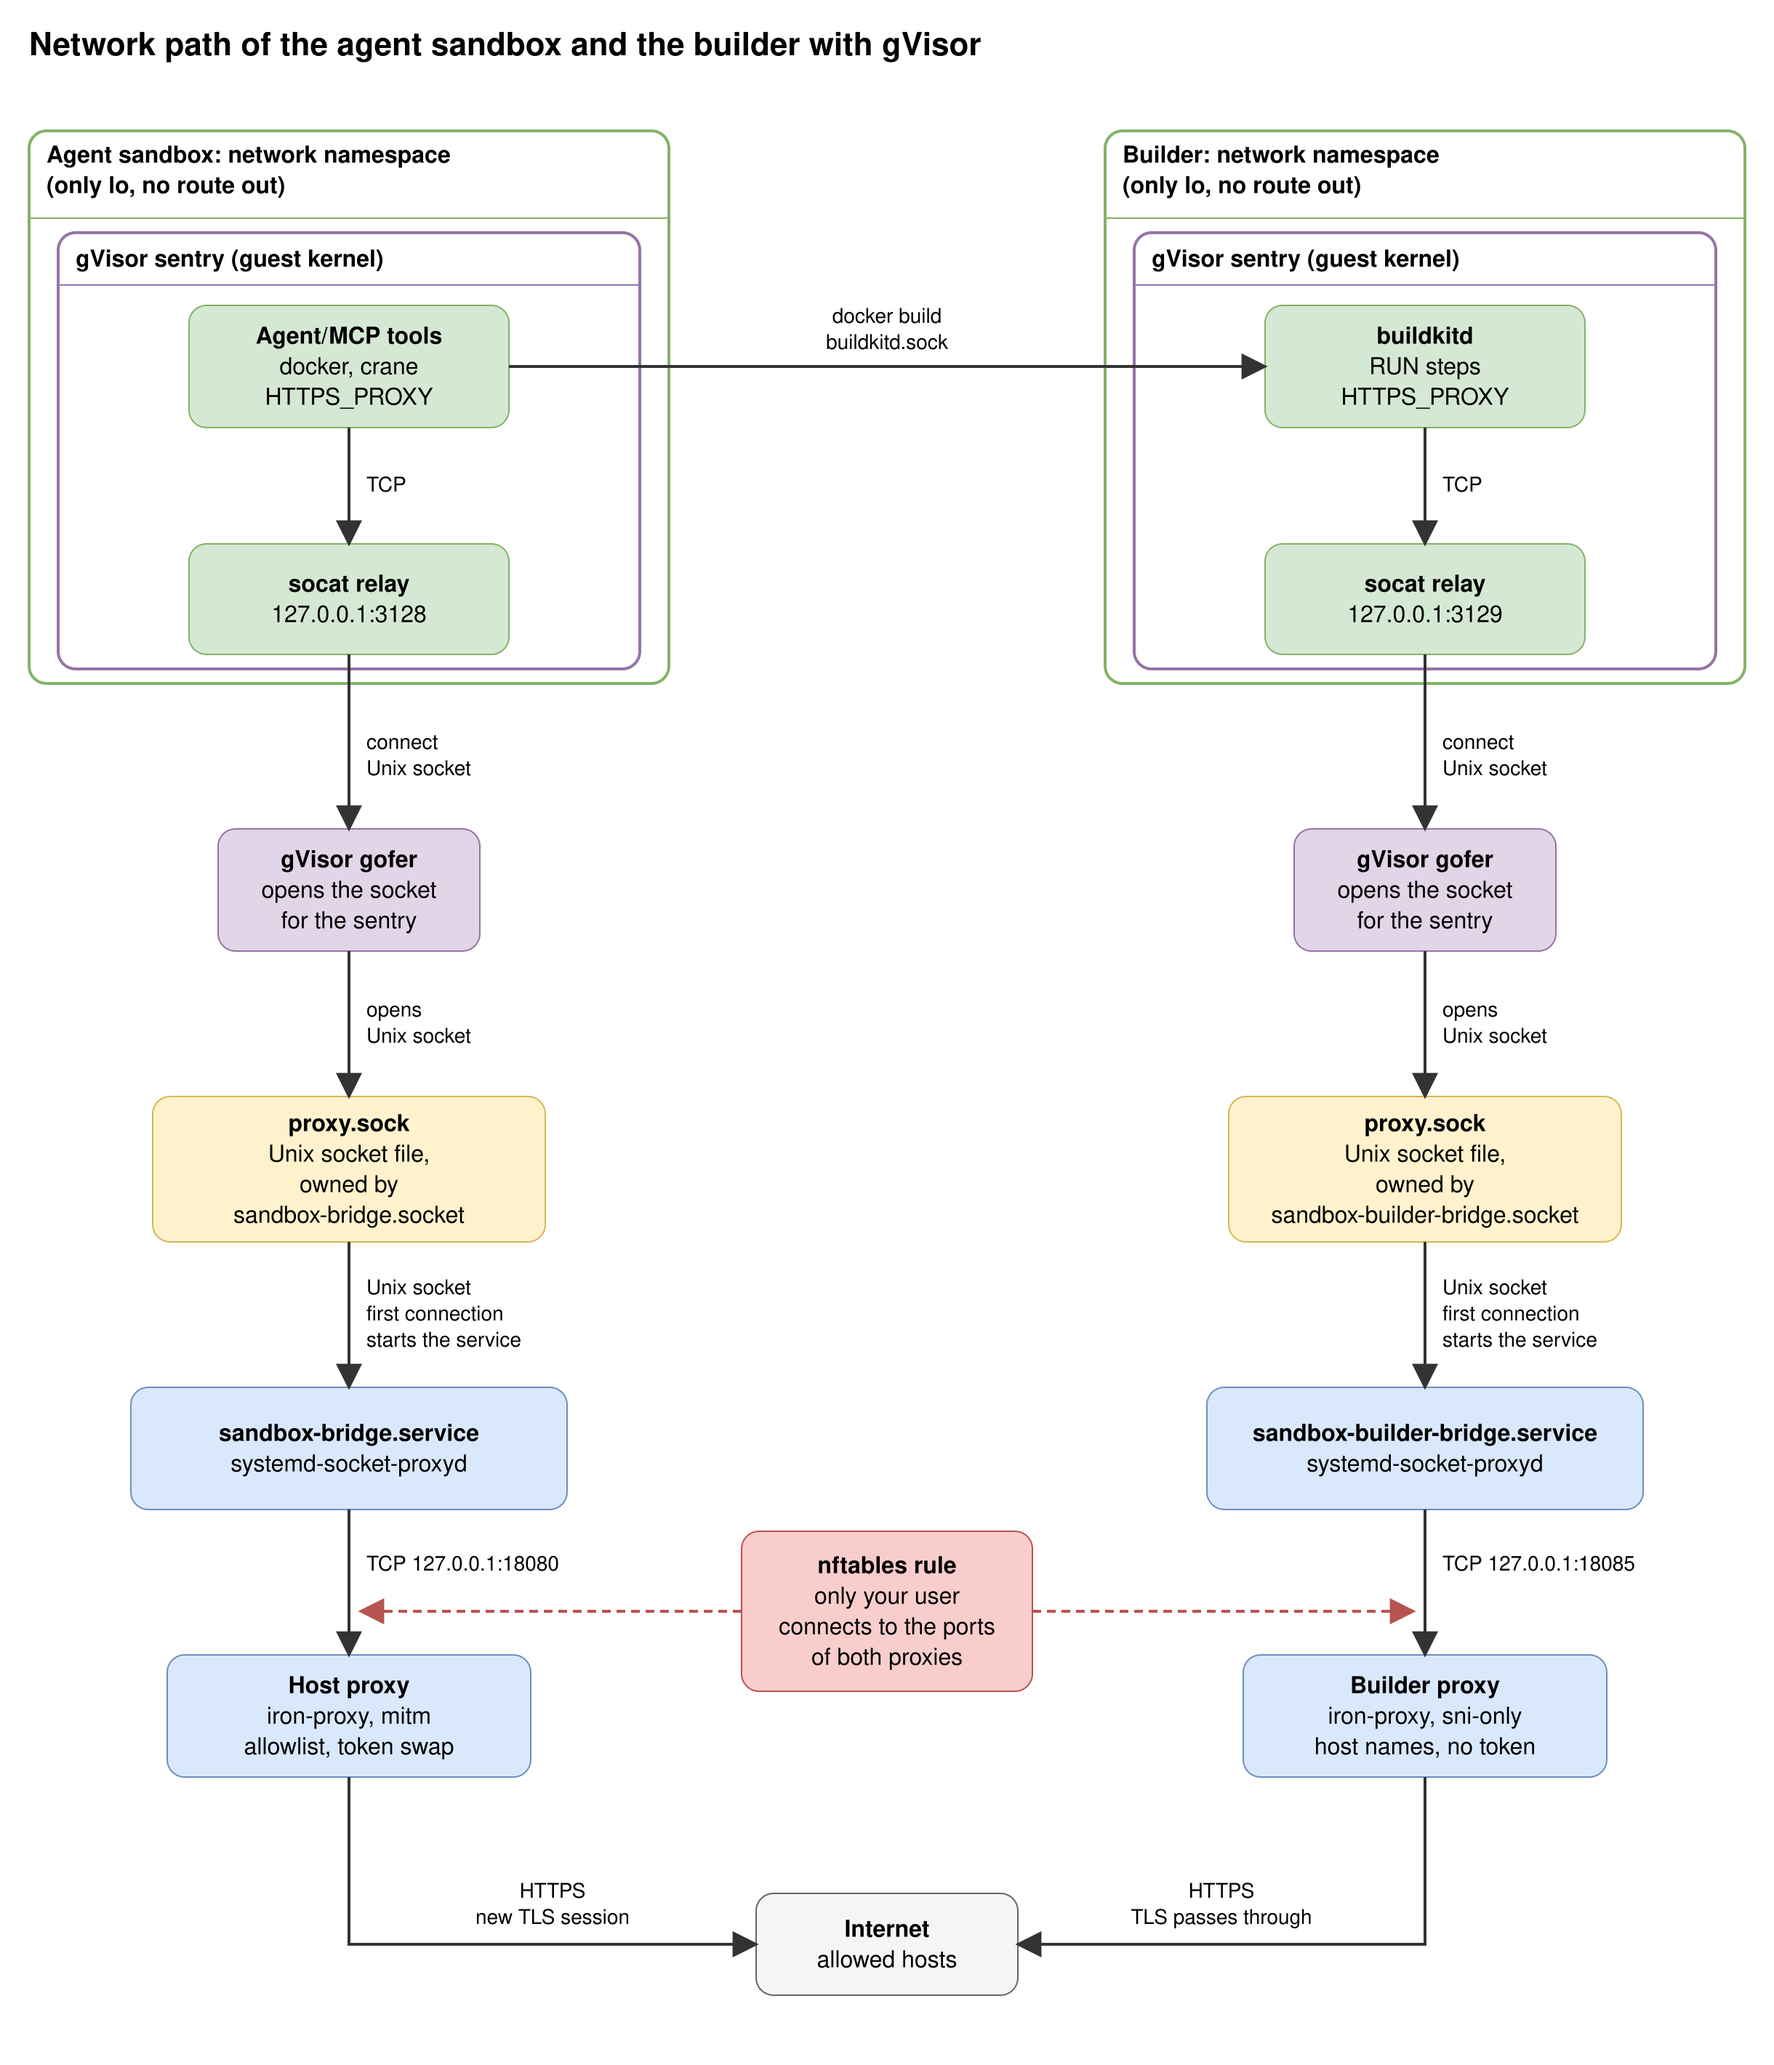
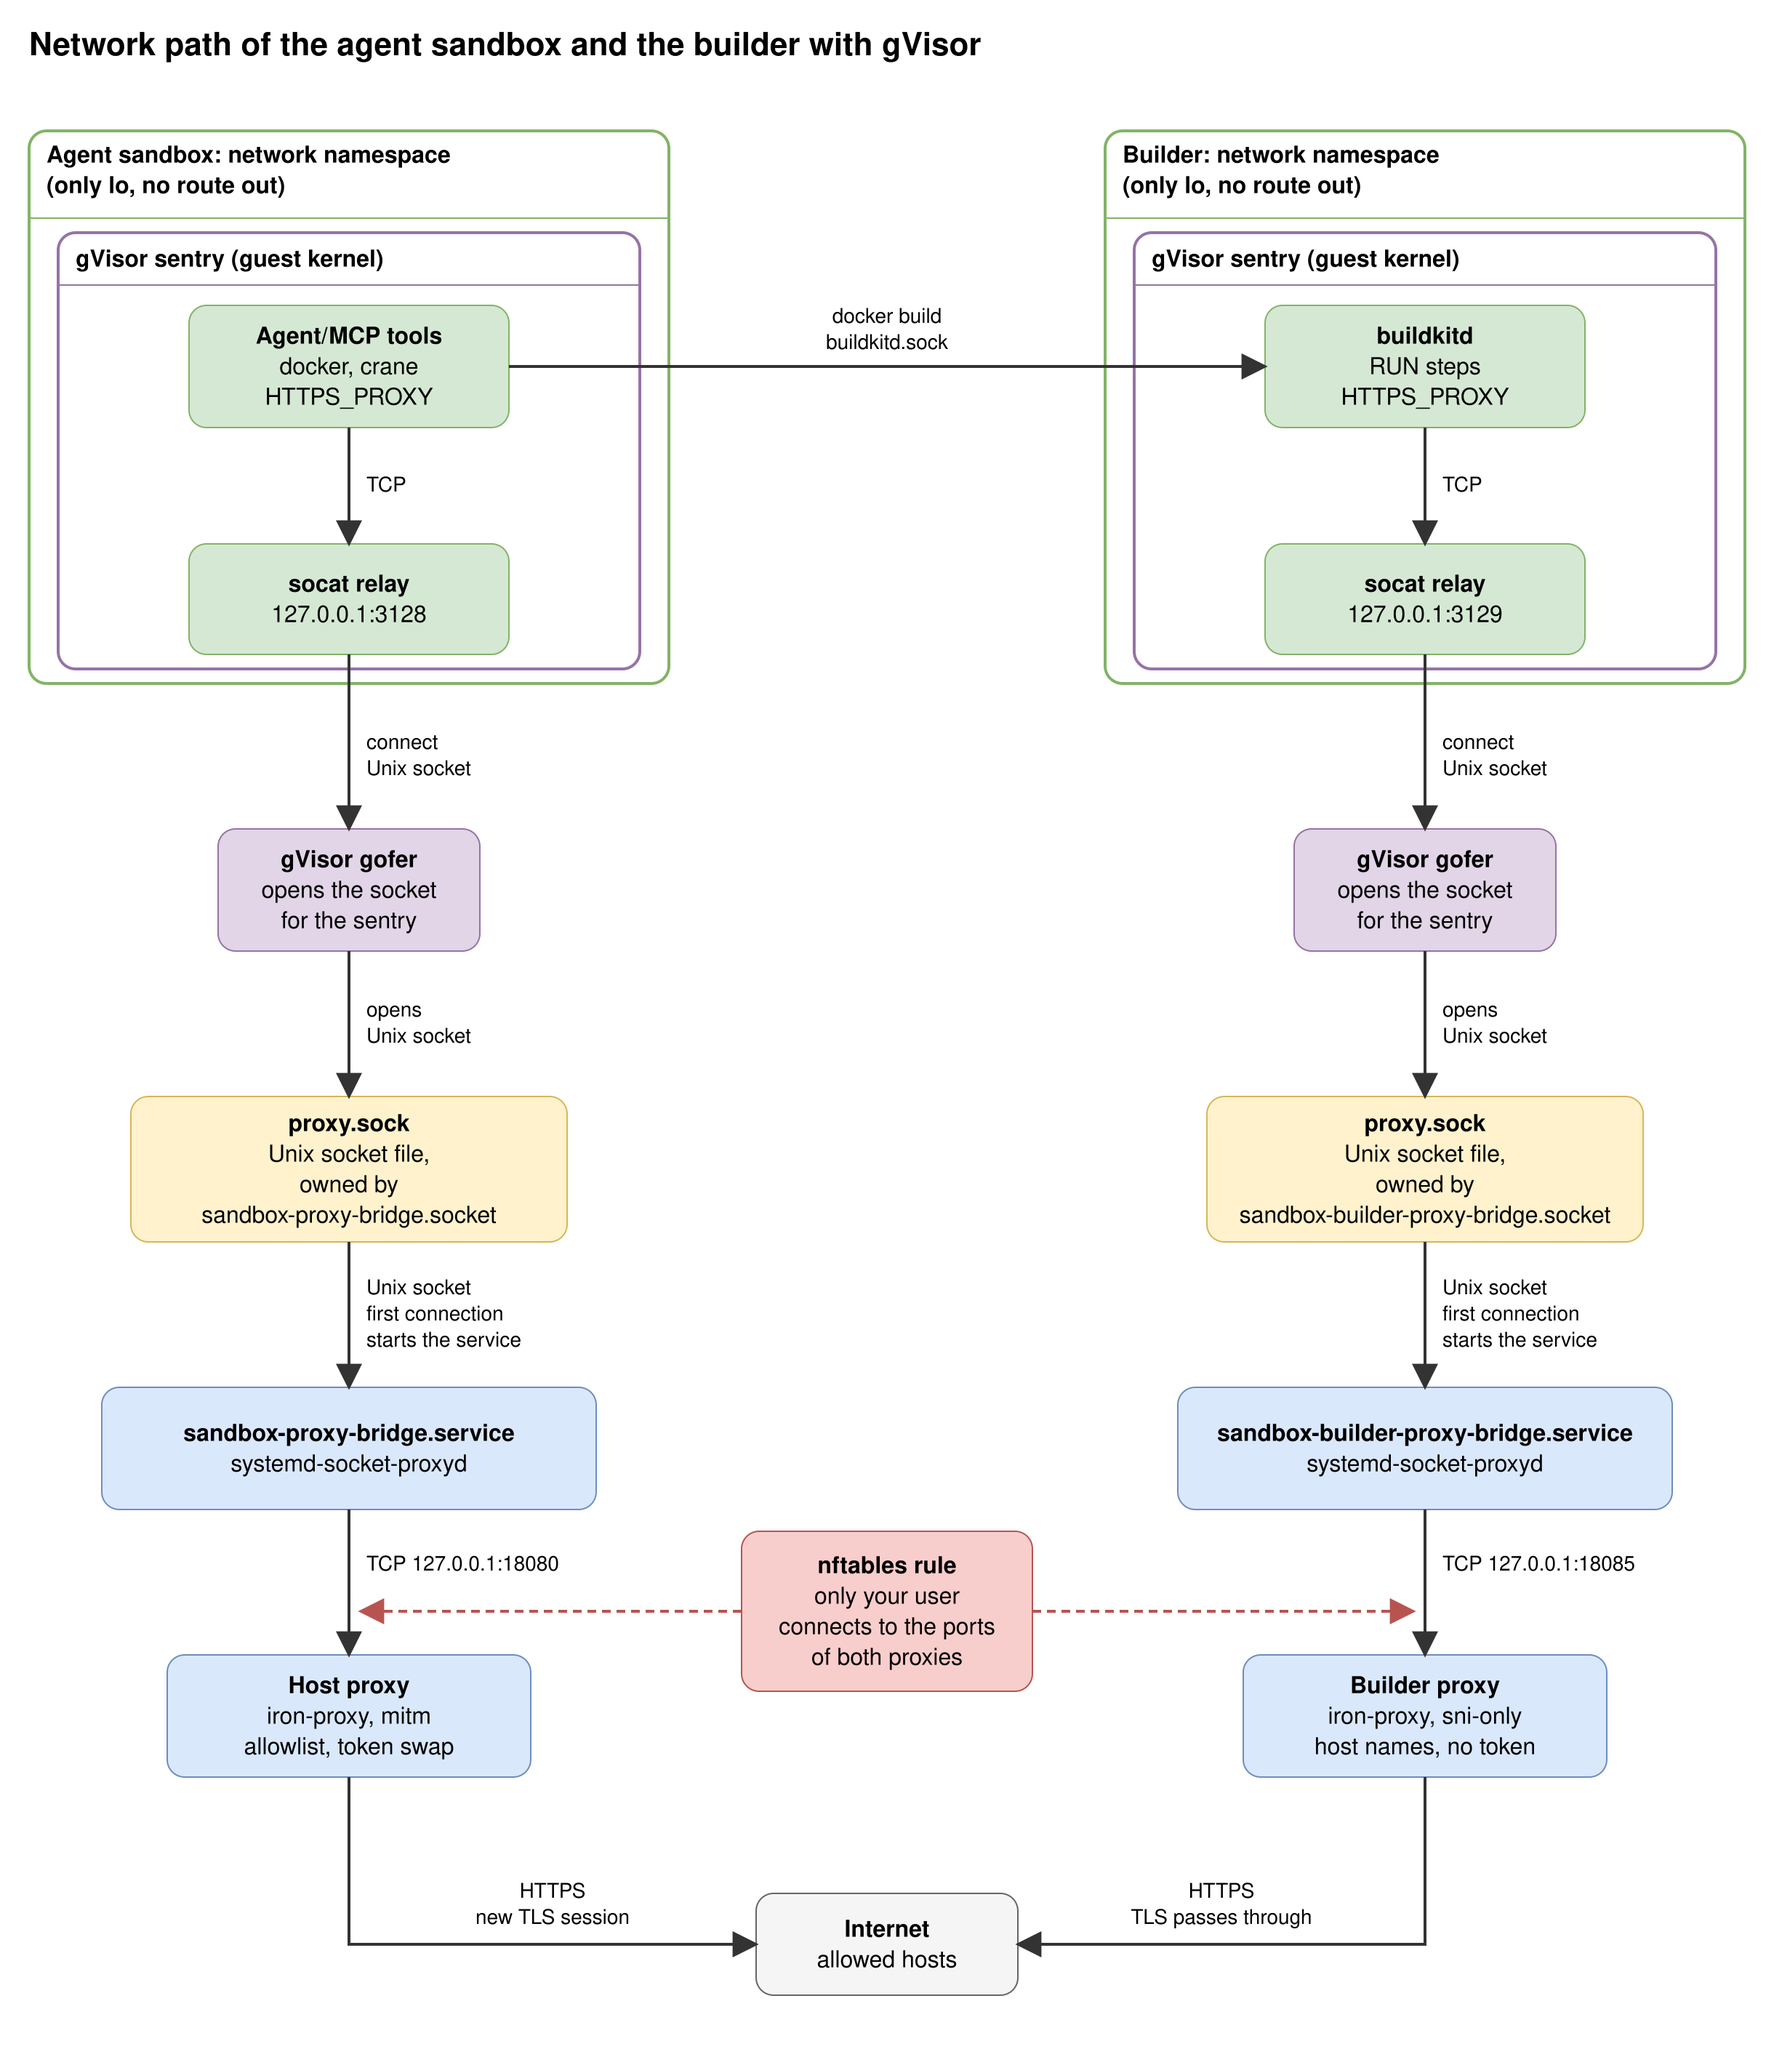
sandbox: name the units of each proxy with one prefix and add a unit map
The bridge units had the names sandbox-bridge.* and sandbox-builder-bridge.*. They now have the names sandbox-proxy-bridge.* and sandbox-builder-proxy-bridge.*. One glob shows a proxy with its bridge. internals.md has a diagram of the dependencies of the units. The network diagram has the new names.

diff --git a/.sandbox/docs/internals.md b/.sandbox/docs/internals.md
@@ -64,11 +64,31 @@ On the host:
 |---|---|
 | `sandbox-agent.service` | The Quadlet unit of the agent sandbox. Requires the builder. |
 | `sandbox-builder.service` | The Quadlet unit of the builder. |
-| `sandbox-bridge.socket` and `.service` | Make `proxy.sock` and copy its bytes to the host proxy. |
+| `sandbox-proxy-bridge.socket` and `.service` | Make `proxy.sock` and copy its bytes to the host proxy. |
 | `sandbox-proxy.service` | The host proxy: iron-proxy with the real tokens from Bitwarden. |
-| `sandbox-builder-bridge.socket` and `.service` | Make the second `proxy.sock` and copy its bytes to the builder proxy. |
+| `sandbox-builder-proxy-bridge.socket` and `.service` | Make the second `proxy.sock` and copy its bytes to the builder proxy. |
 | `sandbox-builder-proxy.service` | The builder proxy: iron-proxy in the mode `sni-only`, with no token. |
 | `sandbox-guard.service` | Loads the firewall rule `sandbox-guard.nft`. |
+
+The units of one proxy share a name prefix. `systemctl --user status 'sandbox-proxy*'` shows the host proxy and its bridge. `systemctl --user status 'sandbox-builder-proxy*'` shows the builder proxy and its bridge.
+
+The dependencies of the units:
+
+```mermaid
+flowchart LR
+    AG["sandbox-agent.service"] -- "Requires, After" --> BU["sandbox-builder.service"]
+    BU -- "Requires, After" --> BS["sandbox-builder-proxy-bridge.socket"]
+    BS -- "first connection starts" --> BB["sandbox-builder-proxy-bridge.service"]
+    BB -- "Requires, After" --> BP["sandbox-builder-proxy.service"]
+    BP -- "Wants" --> BS
+    BS -. "PartOf" .-> BP
+    HS["sandbox-proxy-bridge.socket"] -- "first connection starts" --> HB["sandbox-proxy-bridge.service"]
+    HB -- "Requires, After" --> HP["sandbox-proxy.service"]
+    HP -- "Wants" --> HS
+    HS -. "PartOf" .-> HP
+```
+
+`Requires` and `After` start the target first. `Wants` starts the target with the unit. `PartOf` passes a stop or a restart of the target to the unit. The agent sandbox does not require the host proxy. `just sandbox run` checks that its socket exists.
 
 ## The flow in phases
 

diff --git a/.sandbox/proxy/README.md b/.sandbox/proxy/README.md
@@ -57,7 +57,7 @@ If the firewall step fails, the recipe stops and the proxies do not start.
 ## Step 2: check the proxies
 
 ```bash
-systemctl --user status sandbox-proxy.service sandbox-bridge.socket sandbox-builder-proxy.service sandbox-builder-bridge.socket
+systemctl --user status sandbox-proxy.service sandbox-proxy-bridge.socket sandbox-builder-proxy.service sandbox-builder-proxy-bridge.socket
 ls "$XDG_RUNTIME_DIR/sandbox/proxy.sock" "$XDG_RUNTIME_DIR/sandbox-builder-proxy/proxy.sock"
 ```
 
